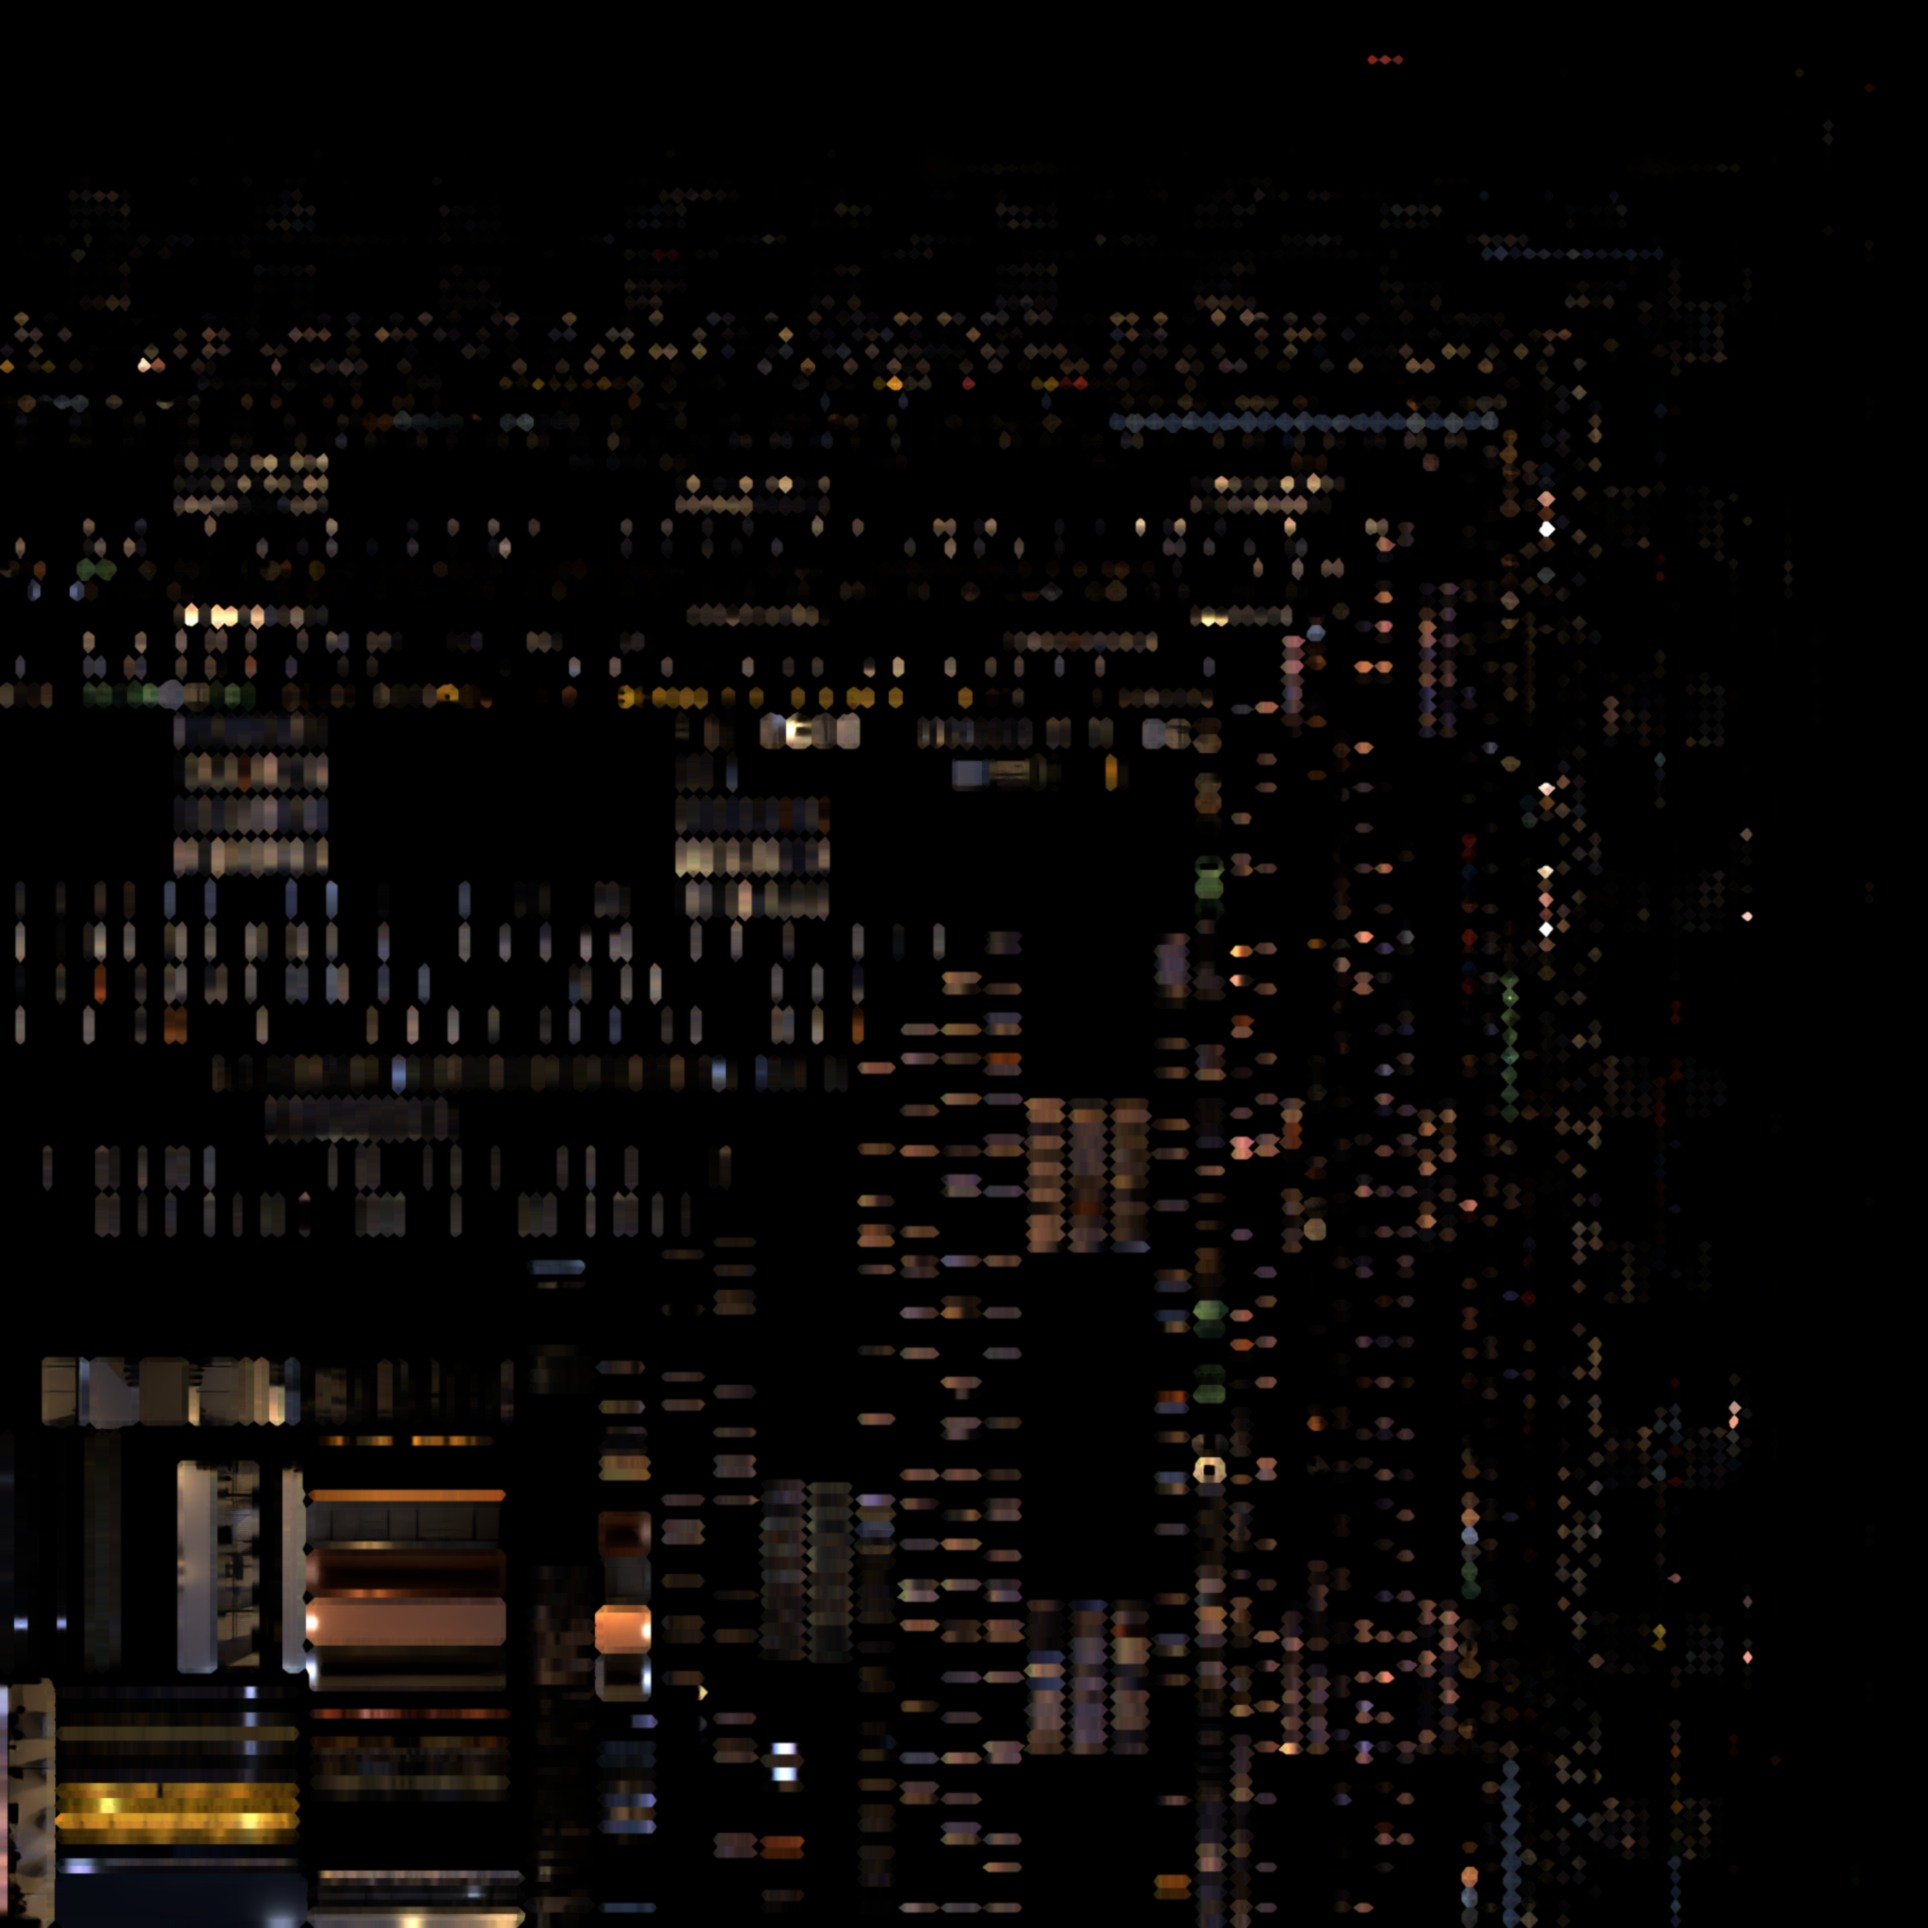
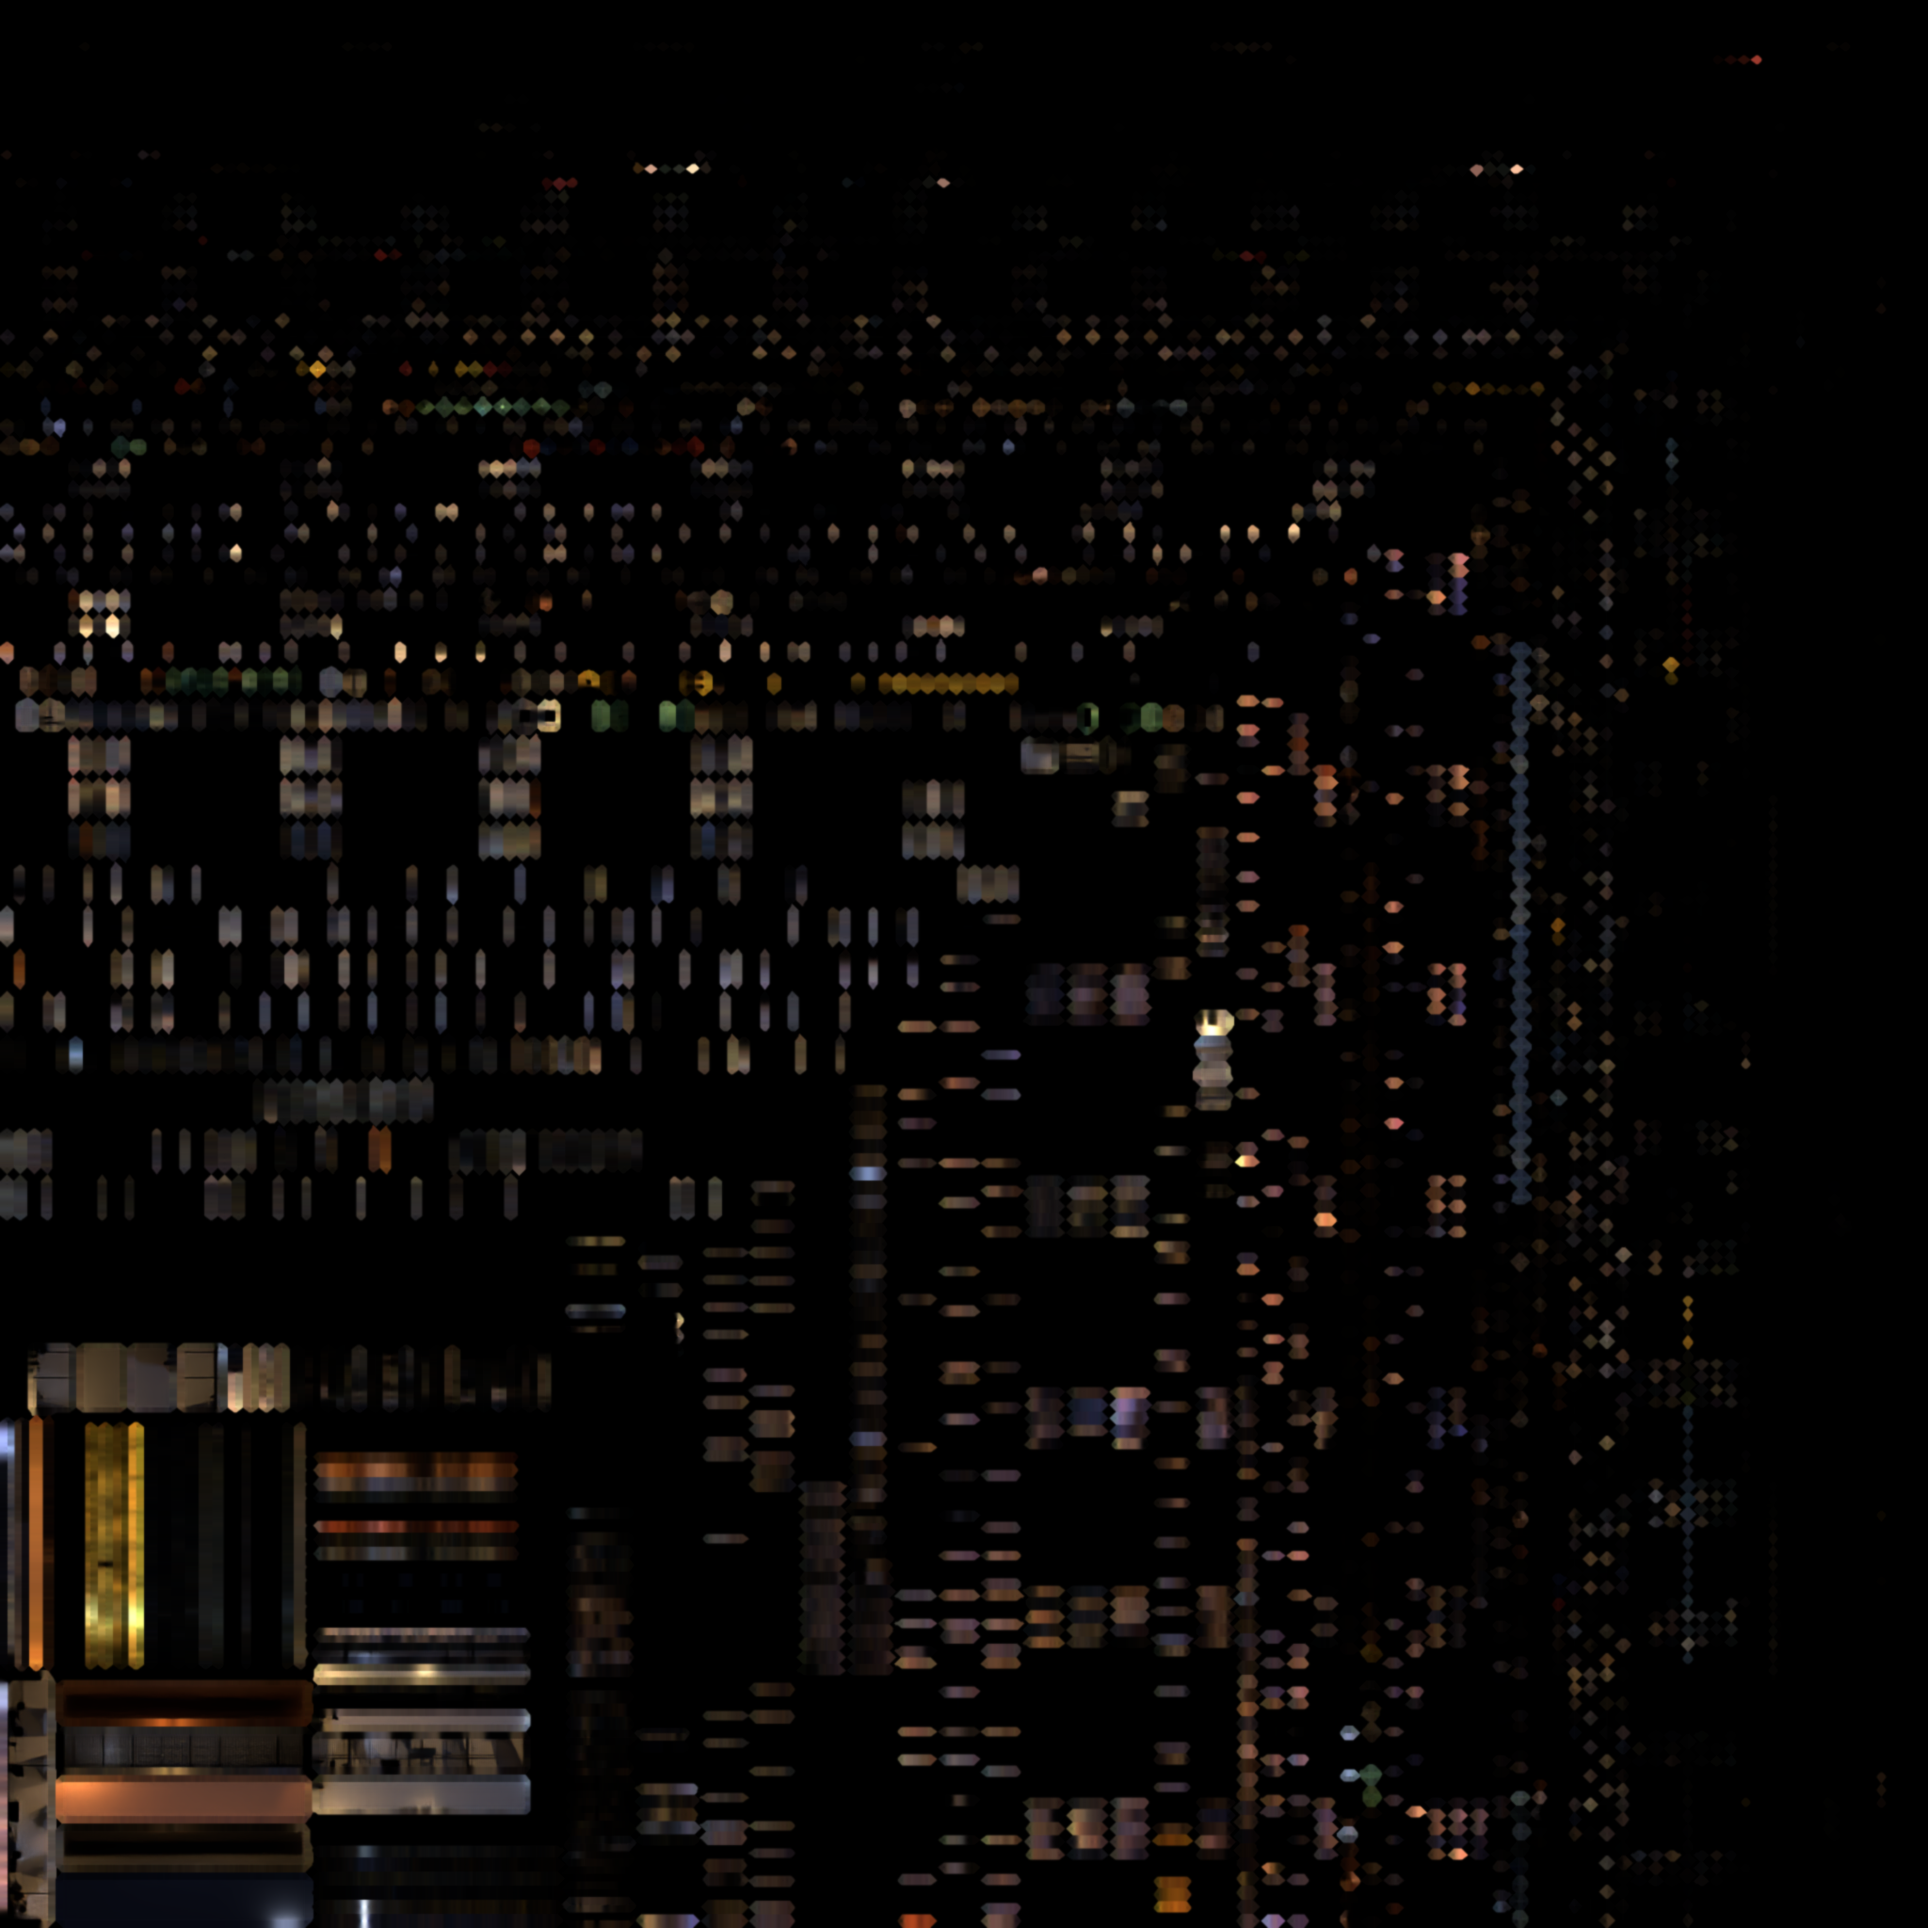
Story roof: one crack - the set's rectangular hole and flat flaps removed, torn metal lips and rust built on the glowing seam
Claude-Session: https://claude.ai/code/session_015hMH19Q3ffBpefttWAikbH

Changed region(s): [[0.0, 0.1562, 0.9062, 1.0], [0.875, 0.8125, 0.9062, 0.8438]]

diff --git a/Assets/Scripts/Editor/StoryBuilder.cs b/Assets/Scripts/Editor/StoryBuilder.cs
@@ -139,6 +139,66 @@ namespace ProjectInk.EditorTools
             return go.transform;
         }
 
+        /// <summary>The roof sheet torn along the crack: on each side a ragged lip of iron bent down
+        /// into the room (built on the crack's own jagged outline, so it follows it exactly), a pale
+        /// worn edge where the metal tore, and rust bled out round it. Children of the crack, so they
+        /// move with it.</summary>
+        static void TornLips(Transform crack, Texture2D glowTex)
+        {
+            var src = crack.GetComponent<MeshFilter>().sharedMesh.vertices;
+            int n = src.Length / 2;
+            var rnd = new System.Random(17);
+            var iron = PrototypeBuilder.Mat("StoryTornIron", "Unlit/Color", new Color(0.075f, 0.07f, 0.068f));
+            var worn = PrototypeBuilder.Mat("StoryTornEdge", "Unlit/Color", new Color(0.34f, 0.29f, 0.25f));
+            foreach (int side in new[] { -1, 1 })
+            {
+                var v = new List<Vector3>(); var e = new List<Vector3>(); var tri = new List<int>(); var etri = new List<int>();
+                for (int i = 0; i < n; i++)
+                {
+                    var inner = src[i * 2 + (side < 0 ? 0 : 1)];
+                    float reach = 0.05f + (float)rnd.NextDouble() * 0.09f;          // how far the torn sheet hangs
+                    float bend = 0.03f + (float)rnd.NextDouble() * 0.07f;           // and how far down it is bent
+                    var tip = inner + new Vector3(side * 0.004f, -bend, 0f);
+                    var root = inner + new Vector3(side * reach, 0.012f, 0f);
+                    v.Add(root); v.Add(tip);
+                    e.Add(tip); e.Add(tip + new Vector3(side * 0.012f, 0.004f, 0f));
+                    if (i > 0)
+                    {
+                        int k = i * 2;
+                        tri.AddRange(new[] { k - 2, k, k - 1, k - 1, k, k + 1, k - 2, k - 1, k, k - 1, k + 1, k });
+                        etri.AddRange(new[] { k - 2, k, k - 1, k - 1, k, k + 1, k - 2, k - 1, k, k - 1, k + 1, k });
+                    }
+                }
+                Strip(crack, "CrackLip" + (side < 0 ? "L" : "R"), v, tri, iron);
+                Strip(crack, "CrackLipEdge" + (side < 0 ? "L" : "R"), e, etri, worn);
+            }
+            // rust bled out round the tear, soft
+            var stain = Vis(GameObject.CreatePrimitive(PrimitiveType.Quad).transform);
+            stain.name = "CrackRust"; stain.SetParent(crack, false);
+            var mid = (src[n] + src[n + 1]) * 0.5f;
+            stain.localPosition = new Vector3(mid.x, mid.y + 0.022f, (src[0].z + src[src.Length - 1].z) * 0.5f);
+            stain.localRotation = Quaternion.Euler(90f, 0f, 0f);
+            stain.localScale = new Vector3(0.9f, (src[src.Length - 1].z - src[0].z) + 0.6f, 1f);
+            stain.GetComponent<Renderer>().sharedMaterial = EnvironmentBuilder.TexMat("StoryCrackRust", "Sprites/Default", glowTex, Vector2.one, new Color(0.36f, 0.17f, 0.08f, 0.55f));
+        }
+
+        static void Strip(Transform parent, string name, List<Vector3> v, List<int> tri, Material m)
+        {
+            var go = new GameObject(name);
+            go.transform.SetParent(parent, false);
+            var mesh = new Mesh { name = name };
+            mesh.SetVertices(v);
+            mesh.SetTriangles(tri, 0);
+            mesh.RecalculateBounds();
+            string path = $"Assets/Generated/Story_{name}.asset";
+            AssetDatabase.DeleteAsset(path);
+            AssetDatabase.CreateAsset(mesh, path);
+            go.AddComponent<MeshFilter>().sharedMesh = mesh;
+            var r = go.AddComponent<MeshRenderer>();
+            r.sharedMaterial = m;
+            r.shadowCastingMode = UnityEngine.Rendering.ShadowCastingMode.Off;
+        }
+
         public const string SetPath = "Assets/Art/Story/StorySet.fbx";
 
         public static void Build(Transform room, Material ground, Transform spawnRoot, Transform[] points, out Vector3 heroStart)
@@ -203,7 +263,8 @@ namespace ProjectInk.EditorTools
             var glowTex = EnvironmentBuilder.SaveTex("StoryGlow", EnvironmentBuilder.GlowTexture(128), TextureWrapMode.Clamp);
             var puddleMat = EnvironmentBuilder.TexMat("StoryPuddle", "Sprites/Default", glowTex, Vector2.one, new Color(0.30f, 0.36f, 0.48f, 0.45f));
             // the storm seam in the roof (it flares with the lightning), under and on top
-            Crack(env, "RoofCrack", HeroStartX - 0.6f, RoofY - 0.03f, -0.7f, 1.9f, 0.035f, crackMat, 5);
+            var roofCrack = Crack(env, "RoofCrack", HeroStartX - 0.6f, RoofY - 0.03f, -0.7f, 1.9f, 0.035f, crackMat, 5);
+            TornLips(roofCrack, glowTex);
             Crack(env, "RoofCrackTop", HeroStartX - 0.6f, RoofY + 0.36f, -0.7f, 1.9f, 0.06f, crackMat, 5);
             float doorL = ShutterX - 1.6f, doorR = ShutterX + 1.6f;
             VBox(env, "MoonGap", new Vector3(ShutterX, 0.05f, BackZ + 0.1f), new Vector3(doorR - doorL - 0.12f, 0.08f, 0.02f), moonMat);

diff --git a/tools/blender/build_story_set.py b/tools/blender/build_story_set.py
@@ -521,20 +521,15 @@ def build_shed(coll, M):
         g.box((s * (HALF_W + 0.15), (FRONT + BACK) / 2 + 0.2, ROOF / 2), (0.3, BACK - FRONT + 0.8, ROOF), M["iron_dark"])
         for z in (0.6, 3.6):
             g.box((s * (HALF_W - 0.02), (FRONT + BACK) / 2 + 0.2, z), (0.06, BACK - FRONT + 0.6, 0.12), M["steel"])
-    # roof: the underside sheet with the crack torn in it, and the roof top
-    for (xa, xb, ya, yb) in ((-HALF_W - 0.3, CRACK_X0, FRONT - 0.3, BACK + 0.3), (CRACK_X1, HALF_W + 0.3, FRONT - 0.3, BACK + 0.3),
-                             (CRACK_X0, CRACK_X1, FRONT - 0.3, CRACK_Y0), (CRACK_X0, CRACK_X1, CRACK_Y1, BACK + 0.3)):
-        g.box(((xa + xb) / 2, (ya + yb) / 2, ROOF + 0.02), (xb - xa, yb - ya, 0.04), M["iron_dark"])
-        g.box(((xa + xb) / 2, (ya + yb) / 2, ROOF + 0.32), (xb - xa, yb - ya, 0.06), M["rust"])
+    # roof: the underside sheet and the roof top, whole (the crack, its torn lips and the storm light
+    # through it are added in the game, on the line the drop falls from)
+    g.box((0, (FRONT + BACK) / 2, ROOF + 0.02), (HALF_W * 2 + 0.6, BACK - FRONT + 0.6, 0.04), M["iron_dark"])
+    g.box((0, (FRONT + BACK) / 2, ROOF + 0.32), (HALF_W * 2 + 0.6, BACK - FRONT + 0.6, 0.06), M["rust"])
     x = -HALF_W
     while x < HALF_W:                                                                        # roof ribs (underside)
-        if not (CRACK_X0 - 0.05 < x < CRACK_X1 + 0.05):
+        if not (CRACK_X0 - 0.4 < x < CRACK_X1 + 0.6):                                         # none across the crack
             g.box((x, (FRONT + BACK) / 2, ROOF - 0.01), (0.08, BACK - FRONT + 0.6, 0.03), M["iron"])
         x += 0.3
-    for i in range(7):                                                                       # torn flaps at the crack
-        fx = rnd.uniform(CRACK_X0, CRACK_X1)
-        fy = rnd.uniform(CRACK_Y0, CRACK_Y1)
-        g.box((fx, fy, ROOF - 0.06), (0.25, 0.4, 0.015), M["rust"], rot=(rnd.uniform(-35, 35), rnd.uniform(-35, 35), rnd.uniform(0, 180)))
     # structure
     x = -HALF_W + 1.2
     while x < HALF_W:
@@ -836,7 +831,7 @@ def lights():
     sun.rotation_euler = MOON_DIR.to_track_quat("-Z", "Y").to_euler()
     sun.data.angle = math.radians(1.5)
     # storm light through the roof crack, straight down onto where he lies
-    add("AREA", "CrackLight", ((CRACK_X0 + CRACK_X1) / 2, (CRACK_Y0 + CRACK_Y1) / 2, ROOF + 0.6), 320, (0.62, 0.72, 1.0), size=1.0)
+    add("AREA", "CrackLight", ((CRACK_X0 + CRACK_X1) / 2, (CRACK_Y0 + CRACK_Y1) / 2, ROOF - 0.12), 260, (0.62, 0.72, 1.0), size=0.6)
     # moonlight under the shutter (from outside, low)
     add("AREA", "DoorGap", ((DOOR_L + DOOR_R) / 2, BACK + 0.9, 0.25), 220, (0.62, 0.72, 1.0), size=2.6,
         rot=(math.radians(-92), 0, 0))

diff --git a/Assets/Scripts/Editor/PrototypeBuilder.cs b/Assets/Scripts/Editor/PrototypeBuilder.cs
@@ -20,7 +20,7 @@ namespace ProjectInk.EditorTools
         const string ScenePath = "Assets/Scenes/Prototype.unity";
         const string ApkPath = "build/Android/StickWick.apk";
         /// <summary>Bump whenever the generated scene changes; open editors rebuild it on pull.</summary>
-        public const int SceneVersion = 30;
+        public const int SceneVersion = 31;
         public const string VersionFile = "Assets/Generated/scene_version.txt";
 
         const string HallScenePath = "Assets/Scenes/ClassicHall.unity";

diff --git a/DEVLOG.md b/DEVLOG.md
@@ -1037,3 +1037,14 @@ Feedback: the shots should be richer and premium, mixing emotion, thriller and a
 - Water on the seam:
   - five small beads cling along the crack (they stay through shot 2, while the camera still looks up)
   - one bead runs down the seam to where the drop gathers as it begins to swell, feeding it
+
+### The roof crack, one and real
+- Looking up in shot 1 there were two different "cracks" that didn't line up:
+  - the Blender set's rectangular hole in the roof sheet, with seven flat rusty "flaps" at random angles inside it (a dark box of tilted orange cards)
+  - beside it, the game's glowing jagged seam (the one the drop falls from)
+- The set's roof is now whole (`build_story_set.py`): no hole, no flaps, no ribs across the seam. The storm light that came through the hole is now a narrow light just under the roof, so the pool on the floor where he lies stays.
+- The glowing seam is the only crack. `StoryBuilder.TornLips` gives it torn metal, built on the seam's own jagged outline so it follows it exactly:
+  - a ragged lip of iron bent down into the room on each side, with a pale worn edge where it tore
+  - rust bled out round it
+  - all children of the crack, so they move with it
+- Scene version 31.
